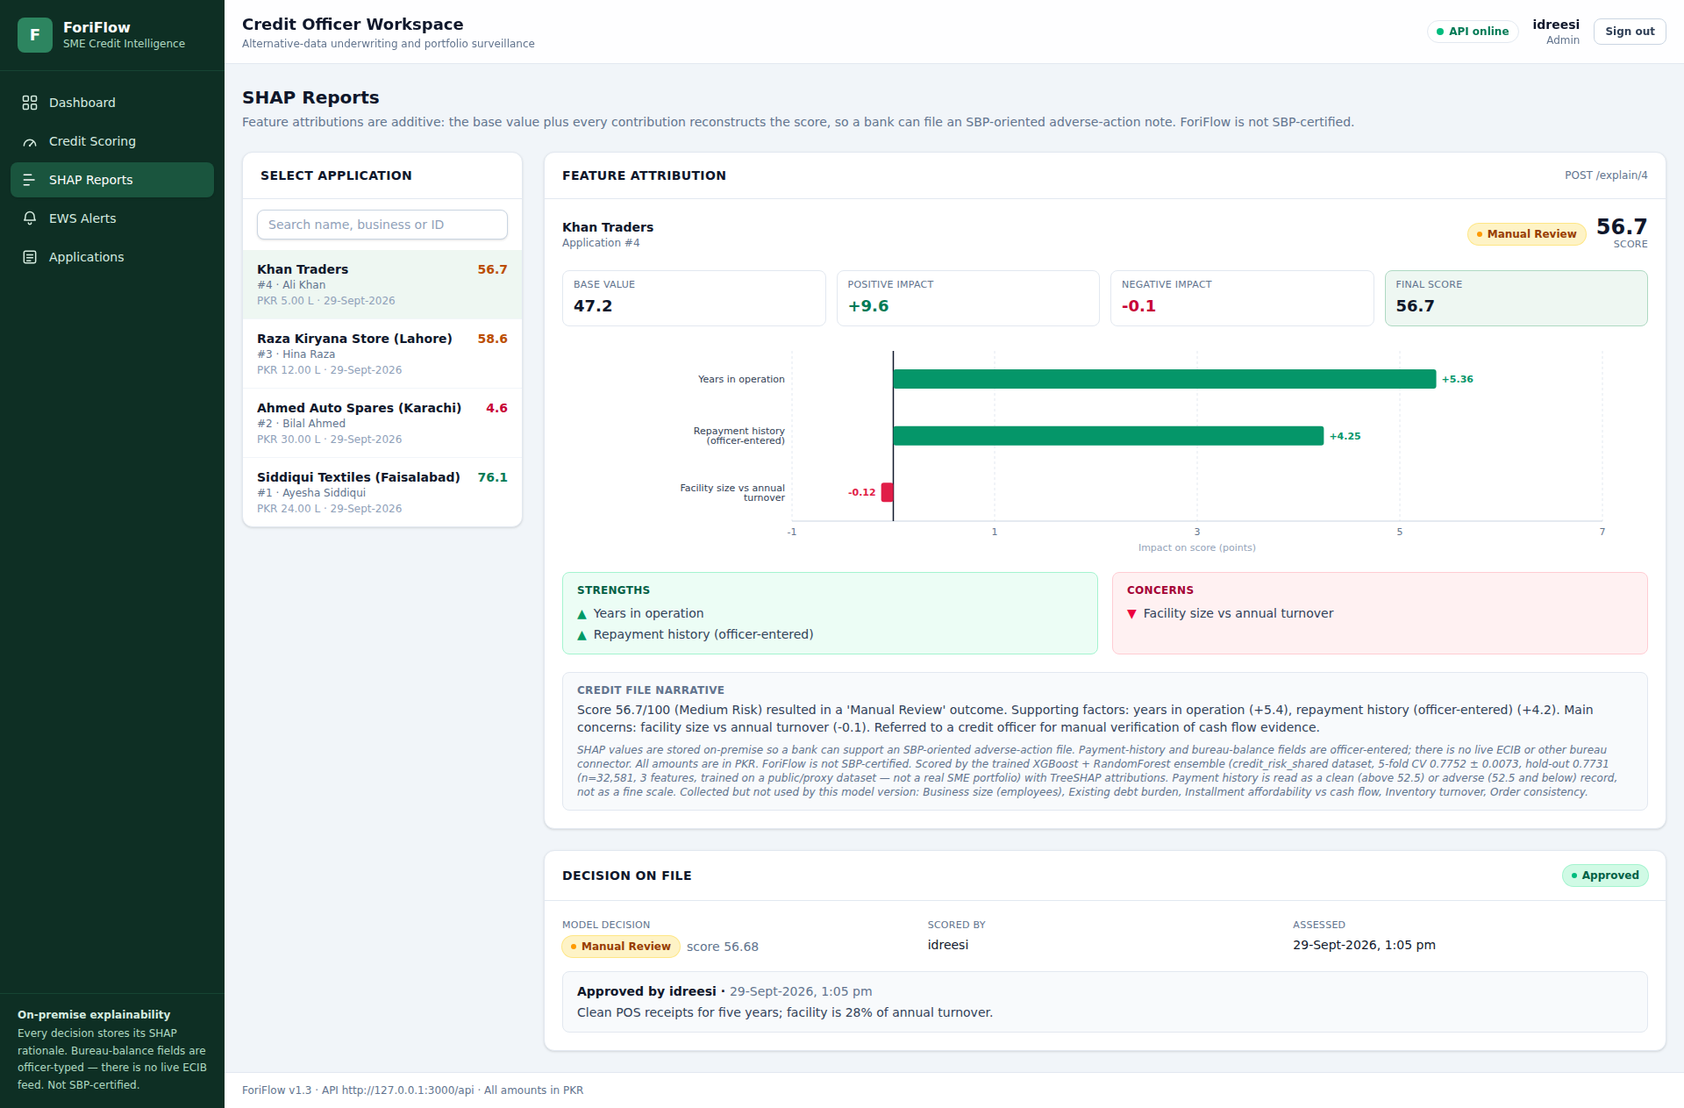
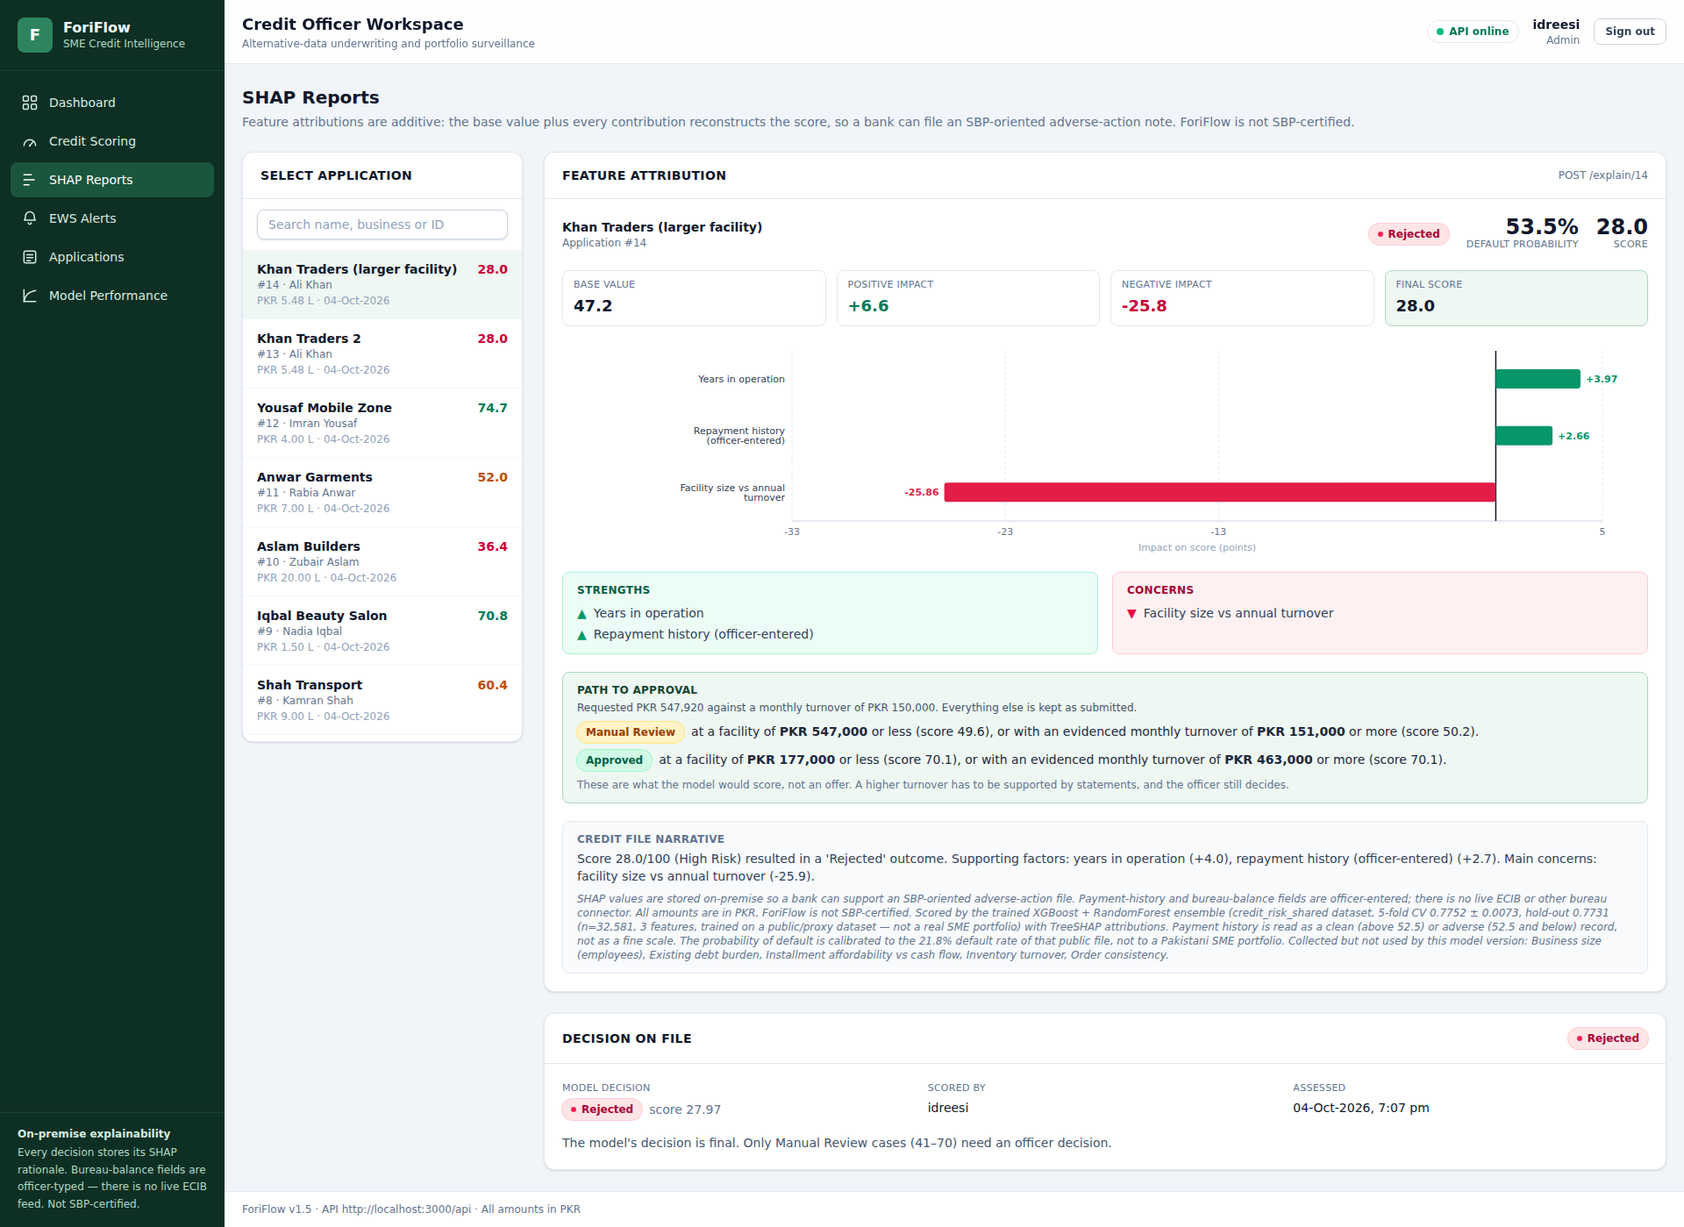
Release 1.5.0: risk register, docs and screenshots in line
docs/risk-register.md lists model, data, process and security risks with
what ForiFlow does today and what a bank still needs. API reference covers
/portfolio/summary and approval_path. Screenshots 01, 03, 04 and the new 08
are recaptured on a twelve-application demo portfolio. ml.evaluate_model
records the Spearman correlation between the model's features.

Claude-Session: https://claude.ai/code/session_01NqdHcg62jAHxXwKBF9J1R1

diff --git a/frontend/src/App.jsx b/frontend/src/App.jsx
@@ -184,7 +184,7 @@ function OfficerShell() {
         </main>
 
         <footer className="border-t border-slate-200 bg-white px-5 py-3 text-xs text-slate-500">
-          ForiFlow v1.4 · API {API_BASE_LABEL} · All amounts in PKR
+          ForiFlow v1.5 · API {API_BASE_LABEL} · All amounts in PKR
         </footer>
       </div>
     </div>

diff --git a/backend/ml/evaluate_model.py b/backend/ml/evaluate_model.py
@@ -201,6 +201,13 @@ def main() -> int:
         ),
         "rows": {"train": int(len(X_train)), "holdout": int(len(X_test))},
         "default_rate": {"train": base_rate, "holdout": float(y_test_arr.mean())},
+        # SHAP splits credit between correlated inputs, so low values here mean
+        # each attribution can be read on its own.
+        "feature_correlation_spearman": {
+            f"{a} ~ {b}": float(X_train[a].corr(X_train[b], method="spearman"))
+            for i, a in enumerate(features)
+            for b in features[i + 1 :]
+        },
         "calibrator": {
             "method": f"isotonic over bins of {CALIBRATION_BIN_ROWS} loans",
             "raw_probability": [float(v) for v in calibrator.X_thresholds_],

diff --git a/backend/main.py b/backend/main.py
@@ -29,7 +29,7 @@ from schemas import HealthResponse
 from services.auth_service import jwt_secret_problem
 from services.scoring_service import get_scoring_service
 
-API_VERSION = "1.4.0"
+API_VERSION = "1.5.0"
 
 logging.basicConfig(
     level=os.getenv("FORIFLOW_LOG_LEVEL", "INFO"),

diff --git a/docs/risk-register.md b/docs/risk-register.md
@@ -1,0 +1,46 @@
+# ForiFlow risk register
+
+What can go wrong when a bank relies on ForiFlow, what the prototype does
+about it today, and what a bank would still have to add. Likelihood and impact
+are our own judgement for a single-branch pilot, not measured frequencies.
+
+Scale: **L** low, **M** medium, **H** high.
+
+## Model risk
+
+| # | Risk | Likelihood | Impact | In ForiFlow today | Still needed in a bank |
+|---|------|:---:|:---:|---|---|
+| M1 | **Wrong population.** The model is trained on a public consumer-loan file mapped onto SMEs, not on Pakistani SME loans. Its ranking may not carry over. | H | H | Stated in every explanation's compliance note and on the Model Performance page. Manual Review (41–70) keeps a person on 63% of hold-out cases. | Retrain and re-validate on the bank's own SME book before any automatic approval. |
+| M2 | **Probability of default is calibrated to the wrong base rate.** It reflects the file's 21.8% default rate. | H | M | The score and bands use the raw ranking, not the PD. The PD is labelled as calibrated to the public file. A calibrator from another training run is ignored at start-up. | Refit the calibrator on the bank's default rate and monitor it every quarter. |
+| M3 | **Only 3 features drive the score** (facility size against turnover, repayment history, years in operation). Two businesses that differ in every other intake field score the same. | H | M | Unused fields are marked on the form and named in the compliance note. | Bank data with more features; the same pipeline reached AUC 0.8656 on a richer public file. |
+| M4 | **Sharp cliff at 30% facility-to-turnover.** A small change in the loan amount moves the score by about 28 points (PKR 540,000 scores 55.74, PKR 547,920 scores 27.97 for the same business). | M | M | The form warns before submission. Path to approval tells the officer the exact amount on each side of the cliff. Monotone constraints guarantee the score never rises with a larger loan. | Review the cliff against the bank's own data; smooth it if the bank's defaults do not show it. |
+| M5 | **Repayment history is read as only clean or adverse** (snapped at 52.5), because the training data holds a yes/no bureau flag. | H | M | Documented on the form and in the compliance note. | A real bureau score with a graded scale. |
+| M6 | **Data drift.** Applicants change over time and the model is not retrained. | M | M | Model version and training date are stored with every explanation. | Monitor the score distribution and default rate per band; set a retraining trigger. |
+| M7 | **Explanations trusted more than they deserve.** SHAP explains the model, not the real cause of default. | M | M | SHAP is exact for this model and additive (checked in tests). Feature correlations are low (largest Spearman 0.055 on the training part), so attribution is not split between related inputs. | Faithfulness tests reported with each model release. |
+
+## Data and input risk
+
+| # | Risk | Likelihood | Impact | In ForiFlow today | Still needed in a bank |
+|---|------|:---:|:---:|---|---|
+| D1 | **Officer types a wrong figure**, or a figure that favours the applicant. Turnover and payment history are typed in, not pulled from a system. | H | H | Range checks on every field. Each assessment records who scored it. Inputs are stored with the decision. | Statement upload or a bureau connection; a second officer check above a set amount. |
+| D2 | **No live ECIB feed.** Bureau balance and payment history are typed. | H | M | Said on the form, the sidebar and the compliance note. | An eCIB or private-bureau integration. |
+| D3 | **Early-warning inputs depend on someone recording the month.** A facility nobody monitors raises no alert. | H | H | The Loan book shows how many approved facilities have monthly records, and how many months lack an amount paid. | Feed repayment data from the core banking system. |
+| D4 | **Early-warning penalties are our own estimates**, not learned from repayment data. | H | M | Stated in the documentation. Only the latest month drives an alert; corrections are handled consistently. | Fit the monitoring model on the bank's monthly repayment history. |
+
+## Decision and process risk
+
+| # | Risk | Likelihood | Impact | In ForiFlow today | Still needed in a bank |
+|---|------|:---:|:---:|---|---|
+| P1 | **Automation bias.** An officer approves because the score says so. | M | H | Manual Review needs an admin, a written reason of at least 10 characters, and cannot be changed afterwards. Model band and officer decision are stored side by side. | Sampling of approved cases by credit audit. |
+| P2 | **Unfair outcomes for a group.** The public data has no gender or region, so fairness across them cannot be measured. | M | H | Age is deliberately not a feature. Business sector is collected for reporting and is not read by the model. | A fairness review on bank data that carries the protected attributes. |
+| P3 | **Path to approval read as an offer**, or used to coach an applicant to restate turnover. | M | M | The panel says it is not an offer and that turnover must be evidenced. | A policy on who may see it. |
+| P4 | **Not SBP-certified.** Explanations are built to support an adverse-action file, not approved by the regulator. | H | H | Stated in the API description, the sidebar and every compliance note. | Regulatory review before production use. |
+
+## Security and operations risk
+
+| # | Risk | Likelihood | Impact | In ForiFlow today | Still needed in a bank |
+|---|------|:---:|:---:|---|---|
+| S1 | **A stolen login token works until it expires** (up to 8 hours); it cannot be revoked. | L | H | Bound to 127.0.0.1; bcrypt cost 12; passwords of 12 characters or more; role read from the database on every request. | Short-lived tokens with refresh, or the bank's single sign-on. |
+| S2 | **One machine, one process.** A laptop failure stops scoring and can lose data. | M | H | PostgreSQL data sits on a named Docker volume; `show-data.bat` reads it back. | Backups, a server deployment and several API workers. |
+| S3 | **Only two roles** (admin, analyst). | M | L | Admin-only actions are enforced by the API (403), not just hidden on screen. | A role hierarchy that matches the bank's credit authority limits. |
+| S4 | **A tampered model file would change every score.** | L | H | Artefacts are baked into the image; the model version is stored with each explanation. | Signed artefacts and a controlled release process. |

diff --git a/docs/api-reference.md b/docs/api-reference.md
@@ -66,7 +66,7 @@ Service metadata.
 ```json
 {
   "service": "ForiFlow API",
-  "version": "1.4.0",
+  "version": "1.5.0",
   "docs": "/docs",
   "endpoints": ["/auth/login", "/score", "/score/applications", "/score/stats",
                 "/explain/{application_id}", "/ews/monitor", "/ews/alerts"]
@@ -83,7 +83,7 @@ Liveness and database connectivity. The dashboard polls this every 60 seconds.
 {
   "status": "ok",
   "service": "ForiFlow API",
-  "version": "1.4.0",
+  "version": "1.5.0",
   "database": "connected"
 }
 ```
@@ -218,7 +218,9 @@ other row), `limit` (1–200, default 50), `offset`.
 stands: the model's band for Approved and Rejected, the officer's
 `review_decision` for a reviewed Manual Review case, and `null` while that
 review is pending. `scored_by` is `null` for rows scored before migration
-`0003_officer_decisions` (version 1.3.0).
+`0003_officer_decisions` (version 1.3.0). `business_sector` is `null` when the
+officer did not record one, and for every row from before
+`0004_portfolio_fields` (version 1.5.0).
 
 ## GET `/score/stats`
 
@@ -416,6 +418,56 @@ alert is already resolved or is being reviewed by another officer.
 Closes an Active or In Review alert, recording `resolved_at`, `resolved_by`
 and `resolution_note` (5–1000 characters). `404` unknown id, `409` if already
 resolved, `403` for analysts, `422` without a note.
+
+## GET `/portfolio/summary`
+
+The repayment position of every approved facility, read from the monthly
+observations recorded through `POST /ews/monitor`. Any signed-in officer.
+
+| Field | Meaning |
+| ----- | ------- |
+| `disbursed_pkr` | Sum of approved facility amounts. |
+| `due_pkr`, `collected_pkr`, `collection_rate` | Installments due and amounts paid in months where an amount was recorded; rate in percent, `null` when nothing is due. |
+| `overdue_pkr` | Per facility, due minus collected where positive. One facility paying ahead does not hide another's arrears. |
+| `outstanding_pkr` | Approved amounts not yet collected. |
+| `par30` | Outstanding on monitored facilities whose latest month is 30 or more days late, over outstanding on all monitored facilities, in percent. |
+| `defaulted_facilities`, `defaulted_outstanding_pkr` | Facilities whose latest month is `Default`. |
+| `months_with_amount`, `months_without_amount` | How many monthly records carry an amount paid. |
+| `latest_status` | Facilities and outstanding per repayment status of the latest month. |
+| `decision_matrix` | For each model band: how many ended Approved, Rejected or still pending. |
+| `sectors` | Per business sector: applications, approved, approval rate, approved exposure, average score, overdue, open alerts. |
+
+Installments are straight-line (facility / tenure); ForiFlow holds no interest
+rate. `POST /score` accepts an optional `business_sector` and `POST
+/ews/monitor` an optional `amount_paid_pkr`; neither is read by the model.
+
+## Path to approval
+
+For a Rejected or Manual Review outcome from the trained ensemble, the
+explanation carries `approval_path`:
+
+```json
+{
+  "requested_loan_pkr": 547920.0,
+  "monthly_turnover_pkr": 150000.0,
+  "steps": [
+    {"target_decision": "Manual Review", "max_loan_pkr": 547000.0, "score_at_max_loan": 49.57,
+     "required_monthly_turnover_pkr": 151000.0, "score_at_turnover": 50.23},
+    {"target_decision": "Approved", "max_loan_pkr": 177000.0, "score_at_max_loan": 70.11,
+     "required_monthly_turnover_pkr": 463000.0, "score_at_turnover": 70.08}
+  ],
+  "blocked_by": []
+}
+```
+
+`max_loan_pkr` is the largest facility, rounded down to PKR 1,000, at which
+the same applicant reaches the band; `required_monthly_turnover_pkr` is the
+smallest turnover, rounded up, at which the requested facility reaches it.
+Either is `null` when no value reaches the band, and `blocked_by` then names
+the factors holding it back. Both model members are monotone in facility size
+against turnover, so each threshold is unique. It is `null` for Approved
+outcomes, the surrogate engine and explanations stored before 1.5.0. These are
+model outputs, not an offer.
 
 ## GET `/model/evaluation`
 

diff --git a/CHANGELOG.md b/CHANGELOG.md
@@ -6,6 +6,41 @@ All notable changes to ForiFlow are recorded here. The format follows
 
 ## [Unreleased]
 
+## [1.5.0] - 2026-10-04
+
+### Added
+
+- **Path to approval.** For a Rejected or Manual Review outcome the trained
+  ensemble reports the largest facility (rounded down to PKR 1,000) and the
+  smallest evidenced monthly turnover (rounded up) at which the same applicant
+  reaches Manual Review and Approved. Both members carry monotone constraints,
+  so each crossing point is unique; three batched grid passes find it in about
+  60 ms and the result is re-scored after rounding. When no facility size
+  reaches a band, the factors holding it back are named. Stored with the
+  explanation as `approval_path` and shown under the SHAP report and the
+  scoring result. It is a model output for the officer, not an offer.
+- **Loan book analytics.** `GET /portfolio/summary` reports disbursed, due,
+  collected, overdue and outstanding amounts, the collection rate, portfolio
+  at risk (outstanding 30 or more days late in the latest month), defaulted
+  facilities, the model-band by final-outcome decision matrix, and a table
+  per business sector. The dashboard shows it as a Loan book section.
+  Installments are straight-line (facility / tenure): ForiFlow holds no
+  interest rate. Months without a recorded amount are counted and left out
+  of the collection figures, never estimated.
+- Applications take an optional `business_sector` (reporting only, the model
+  does not read it) and `POST /ews/monitor` an optional `amount_paid_pkr`.
+  Migration `0004_portfolio_fields` adds both columns as nullable.
+- `docs/risk-register.md`: model, data, process and security risks, what
+  ForiFlow does about each today and what a bank would still need.
+- `ml.evaluate_model` records the Spearman correlation between the model's
+  features (largest 0.055 in absolute value).
+
+### Changed
+
+- The calibrator is fitted over bins of 250 loans, so it never reports a
+  probability of exactly 0% or 100% from a handful of loans. Hold-out Brier
+  0.1302, expected calibration error 0.0091.
+
 ## [1.4.0] - 2026-10-03
 
 ### Added
@@ -15,9 +50,8 @@ All notable changes to ForiFlow are recorded here. The format follows
   stores its breakpoints in `ml/model_evaluation.json`. Every score now returns
   `probability_of_default`, and it is saved inside the stored explanation. On
   the hold-out the Brier score falls from 0.1852 (worse than the 0.1706 of
-  always predicting the base rate) to 0.1302, and the mean prediction from
-  44.4% to 21.8%, matching the 21.8% observed. It is fitted over bins of 250
-  loans, so no probability is reported from a handful of loans. The calibrator is monotone, so the
+  always predicting the base rate) to 0.1305, and the mean prediction from
+  44.4% to 21.9% against 21.8% observed. The calibrator is monotone, so the
   score, the policy bands and the SHAP values are unchanged. It is calibrated
   to the public training file, not to a Pakistani SME portfolio, and it is
   ignored if it belongs to another training run.

diff --git a/README.md b/README.md
@@ -61,6 +61,8 @@ prefix to FastAPI, so a bank laptop never has to configure CORS.
 | 🎯 **AI Credit Scoring** | XGBoost + Random Forest soft-voting ensemble. Score: 0-100 |
 | 📊 **SHAP Waterfall Charts** | Every decision explained with feature attribution |
 | 📈 **Calibrated PD & Model Performance** | Each score carries a probability of default calibrated on out-of-fold predictions; a Model Performance page shows the hold-out ROC curve, confusion matrix, threshold table, default rate per band and the six-model comparison |
+| 🧭 **Path to approval** | For a rejected or referred applicant, the exact facility size and the evidenced turnover at which the same business would reach the next band, found by searching the monotone model |
+| 💼 **Loan book analytics** | Disbursed, collected, overdue and outstanding amounts, portfolio at risk (30+ days), defaults, a decision matrix and a per-sector table, from the months officers record |
 | ✅ **Officer decision on Manual Review** | An admin approves or rejects each 41–70 case with a written reason; the model band, the officer's call, name and time are all kept, and only approved facilities can be monitored |
 | 🚨 **Early Warning System** | Officer-submitted monthly observation; a rule-based score is derived from the origination baseline and an alert fires on a >15-point drop |
 | 🏦 **PKR Banking Context** | PKR amounts; designed for SBP-oriented explainability (not SBP-certified, no live ECIB feed) |
@@ -86,6 +88,7 @@ prefix to FastAPI, so a bank laptop never has to configure CORS.
 ![EWS Alerts](docs/screenshots/05-ews-alerts.png)
 ![Applications](docs/screenshots/06-applications.png)
 ![API Docs](docs/screenshots/07-swagger.png)
+![Model Performance](docs/screenshots/08-model-performance.png)
 
 
 ## 🚀 Quick Start

diff --git a/docs/screenshots/README.md b/docs/screenshots/README.md
@@ -1,20 +1,21 @@
 # Screenshots
 
-The 01–07 screenshots show release 1.3.0 with the trained model on
-PostgreSQL 16, captured at 1920 px wide from a small demo portfolio: the three
-reference applicants from `backend/tests/conftest.py` plus Khan Traders
-(Manual Review, approved by an officer, with one Late 60–89 month and its alert
-taken for review). To recapture against your own running stack, see
+Captured at 1920 px wide with the trained model on PostgreSQL 16. Files 01,
+03, 04 and 08 show release 1.5.0 on a twelve-application demo portfolio across
+eight sectors, with monthly records on seven approved facilities. Files 02 and
+05 to 07 are from release 1.3.0; those pages gained only the business sector
+and amount-paid fields since. To recapture against your own running stack, see
 [`scripts/README.md`](../../scripts/README.md).
 
 | File | Page |
 |------|------|
-| `01-dashboard.png` | Dashboard |
+| `01-dashboard.png` | Dashboard with the Loan book section |
 | `02-scoring-form.png` | Credit Scoring form |
-| `03-score-result.png` | Score gauge, SHAP rationale and pending decision panel after submit |
-| `04-shap-chart.png` | SHAP waterfall and the officer decision on file |
+| `03-score-result.png` | Score gauge, probability of default, path to approval and SHAP rationale after submit |
+| `04-shap-chart.png` | SHAP waterfall, path to approval and the decision on file |
 | `05-ews-alerts.png` | EWS Alerts |
 | `06-applications.png` | Applications register |
 | `07-swagger.png` | FastAPI Swagger UI |
+| `08-model-performance.png` | Model Performance: ROC, calibration, confusion matrix, thresholds, alternatives |
 | `architecture-delivered.png` | Proposal architecture figure |
 | `gantt-delivered.png` | Proposal 14-week Gantt |

diff --git a/docs/architecture.md b/docs/architecture.md
@@ -147,8 +147,8 @@ flowchart TB
     officer[Officer browser] --> fe
 ```
 
-Images: `foriflow-backend:1.4.0` (`python:3.12-slim` + `libgomp1`) and
-`foriflow-frontend:1.4.0` (Node 20 build, nginx 1.27). See
+Images: `foriflow-backend:1.5.0` (`python:3.12-slim` + `libgomp1`) and
+`foriflow-frontend:1.5.0` (Node 20 build, nginx 1.27). See
 [deployment.md](deployment.md).
 
 ## Repository map
@@ -158,7 +158,7 @@ Images: `foriflow-backend:1.4.0` (`python:3.12-slim` + `libgomp1`) and
 | `backend/main.py` | App factory, CORS, lifespan (eager model load) |
 | `backend/routers/` | `/auth`, `/score` (incl. Manual Review decision and stats), `/explain`, `/ews` |
 | `backend/services/` | Scoring engines, EWS rules, auth (bcrypt, JWT, roles) |
-| `backend/alembic/` | PostgreSQL schema migrations (0001–0003) |
+| `backend/alembic/` | PostgreSQL schema migrations (0001–0004) |
 | `backend/ml/` | Feature schema, training, artefacts |
 | `frontend/src/pages/` | Five officer workspaces |
 | `frontend/src/api/client.js` | Axios client, base `/api` |

diff --git a/docs/deployment.md b/docs/deployment.md
@@ -185,8 +185,8 @@ docker compose ps
 All three should show `healthy` (or `Up ... (healthy)`).
 
 On backend startup, `init_db()` runs **Alembic `upgrade head`** against
-PostgreSQL (revisions `0001_initial`, `0002_users` and
-`0003_officer_decisions` on an empty database; an existing database only gets
+PostgreSQL (revisions `0001_initial`, `0002_users`,
+`0003_officer_decisions` and `0004_portfolio_fields` on an empty database; an existing database only gets
 the revisions it is missing). Schema is owned by Alembic, not by ad hoc table creation.
 
 Postgres data lives on the named volume `foriflow-pgdata`. It survives
@@ -266,7 +266,7 @@ backend container.
 
 ```bash
 docker compose build
-docker save foriflow-backend:1.4.0 foriflow-frontend:1.4.0 postgres:16.6 -o foriflow-images.tar
+docker save foriflow-backend:1.5.0 foriflow-frontend:1.5.0 postgres:16.6 -o foriflow-images.tar
 ```
 
 Copy the tarball, `docker-compose.yml`, and a filled `.env` (never the

diff --git a/backend/README.md b/backend/README.md
@@ -108,7 +108,7 @@ backend/
   config.py                   # environment: database URL, JWT secret, flags
   schemas.py                  # Pydantic request/response models + enums
   models/database.py          # engine, session, Application / Alert / EWSTracking / User
-  alembic/versions/           # PostgreSQL schema: 0001 initial, 0002 users, 0003 officer decisions
+  alembic/versions/           # PostgreSQL schema: 0001 initial, 0002 users, 0003 officer decisions, 0004 portfolio fields
   routers/auth.py             # login, current officer, officer accounts
   routers/score.py            # scoring, applications, Manual Review decision, portfolio stats
   routers/explain.py          # SHAP-style explanations
